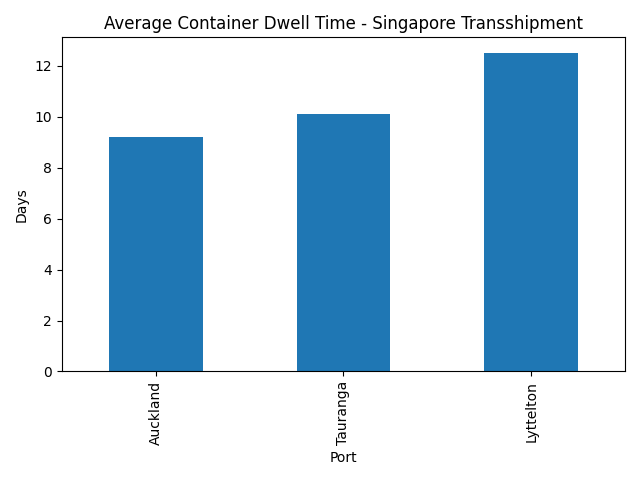
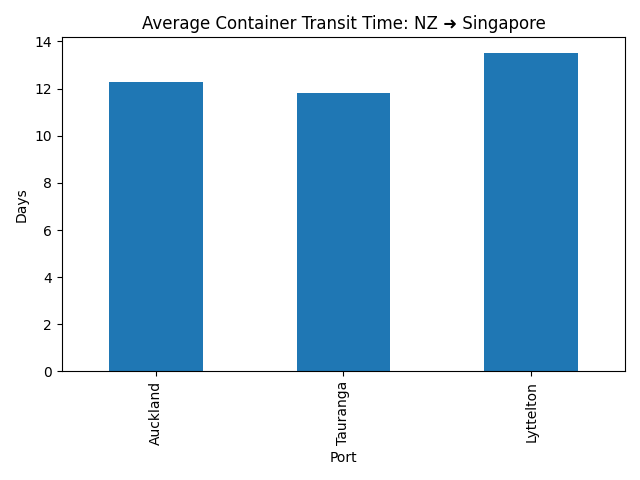
Automated NZ→SG dashboard update (v2025.10.31)

diff --git a/docs/index.html b/docs/index.html
@@ -1,8 +1,8 @@
 
 <html>
-<head><title>Container Dashboard</title></head>
+<head><title>NZ ➜ Singapore Container Dashboard</title></head>
 <body style='font-family:Arial;text-align:center;'>
-<h1>🚢 Container Transshipment Analytics</h1>
+<h1>🚢 NZ ➜ Singapore Transshipment Analytics</h1>
 <p>Last updated: 2025-10-31</p>
 <img src='chart.png' width='600'>
 <h3>Latest Data</h3>
@@ -14,37 +14,37 @@
       <th>eta_days</th>
       <th>Date</th>
       <th>Port</th>
-      <th>Avg_Dwell_Days</th>
+      <th>Avg_Transit_Days</th>
       <th>Containers</th>
     </tr>
   </thead>
   <tbody>
     <tr>
-      <td>Singapore</td>
       <td>Auckland</td>
-      <td>9.2</td>
+      <td>Singapore</td>
+      <td>12.3</td>
       <td>2025-10-31</td>
       <td>Auckland</td>
-      <td>9.2</td>
-      <td>50</td>
-    </tr>
-    <tr>
-      <td>Singapore</td>
-      <td>Tauranga</td>
-      <td>10.1</td>
-      <td>2025-10-31</td>
-      <td>Tauranga</td>
-      <td>10.1</td>
-      <td>40</td>
-    </tr>
-    <tr>
-      <td>Singapore</td>
-      <td>Lyttelton</td>
-      <td>12.5</td>
-      <td>2025-10-31</td>
-      <td>Lyttelton</td>
-      <td>12.5</td>
+      <td>12.3</td>
       <td>60</td>
+    </tr>
+    <tr>
+      <td>Tauranga</td>
+      <td>Singapore</td>
+      <td>11.8</td>
+      <td>2025-10-31</td>
+      <td>Tauranga</td>
+      <td>11.8</td>
+      <td>70</td>
+    </tr>
+    <tr>
+      <td>Lyttelton</td>
+      <td>Singapore</td>
+      <td>13.5</td>
+      <td>2025-10-31</td>
+      <td>Lyttelton</td>
+      <td>13.5</td>
+      <td>70</td>
     </tr>
   </tbody>
 </table>

diff --git a/scripts/analyze_transit.py b/scripts/analyze_transit.py
@@ -1,53 +1,65 @@
 import pandas as pd, datetime, requests, matplotlib.pyplot as plt
 from pathlib import Path
 
+# --- Setup ---
 base = Path("C:/Users/seeds/Documents/Containrttransshipment")
-data_dir, dashboard_dir = base / "data", base / "dashboard"
-data_dir.mkdir(exist_ok=True); dashboard_dir.mkdir(exist_ok=True)
+data_dir, docs_dir = base / "data", base / "docs"
+data_dir.mkdir(exist_ok=True); docs_dir.mkdir(exist_ok=True)
 
 today = datetime.date.today()
-print("📡 Fetching data...")
-api_url = "https://api.portcalls.io/v1/schedules"
-params, headers = {"from":"SGSIN","to":"NZAKL","limit":10}, {"accept":"application/json"}
+print("📡 Fetching NZ→Singapore transshipment data...")
 
-try:
-    res = requests.get(api_url, params=params, headers=headers, timeout=15)
-    res.raise_for_status()
-    data_json = res.json()
-    records = data_json.get("results", [])
-except Exception:
-    print("⚠ Using simulated data.")
-    records = [
-        {"origin": "Singapore", "destination": "Auckland", "eta_days": 9.2},
-        {"origin": "Singapore", "destination": "Tauranga", "eta_days": 10.1},
-        {"origin": "Singapore", "destination": "Lyttelton", "eta_days": 12.5},
-    ]
+api_url = "https://api.portcalls.io/v1/schedules"
+nz_ports = ["NZAKL", "NZTRG", "NZLYT"]  # Auckland, Tauranga, Lyttelton
+records = []
+
+for port in nz_ports:
+    try:
+        params = {"from": port, "to": "SGSIN", "limit": 10}
+        headers = {"accept": "application/json"}
+        res = requests.get(api_url, params=params, headers=headers, timeout=15)
+        res.raise_for_status()
+        data_json = res.json()
+        records += data_json.get("results", [])
+    except Exception:
+        print(f"⚠ Using simulated data for {port}.")
+        fallback = {
+            "NZAKL": {"origin": "Auckland", "destination": "Singapore", "eta_days": 12.3},
+            "NZTRG": {"origin": "Tauranga", "destination": "Singapore", "eta_days": 11.8},
+            "NZLYT": {"origin": "Lyttelton", "destination": "Singapore", "eta_days": 13.5},
+        }
+        records.append(fallback[port])
 
 df = pd.DataFrame(records)
-if "eta_days" not in df.columns: df["eta_days"] = [r.get("eta_days", 10) for r in records]
-df["Date"], df["Port"], df["Avg_Dwell_Days"] = today, df["destination"], df["eta_days"]
-df["Containers"] = [round(20 + 80 * abs(hash(p)) % 50) for p in df["Port"]]
+if "eta_days" not in df.columns: df["eta_days"] = [r.get("eta_days", 12) for r in records]
+df["Date"], df["Port"], df["Avg_Transit_Days"] = today, df["origin"], df["eta_days"]
+df["Containers"] = [round(50 + 50 * abs(hash(p)) % 30) for p in df["Port"]]
 
-csv_path = data_dir / "container_data.csv"; df.to_csv(csv_path, index=False)
+csv_path = data_dir / "nz_to_sg_data.csv"
+df.to_csv(csv_path, index=False)
 print(f"✅ Data saved to {csv_path}")
 
+# --- Visualization ---
 plt.figure(figsize=(8, 5))
-df.plot(kind="bar", x="Port", y="Avg_Dwell_Days", legend=False)
-plt.title("Average Container Dwell Time - Singapore Transshipment")
-plt.ylabel("Days"); plt.tight_layout()
-plt.savefig(dashboard_dir / "chart.png"); plt.close()
+df.plot(kind="bar", x="Port", y="Avg_Transit_Days", legend=False)
+plt.title("Average Container Transit Time: NZ ➜ Singapore")
+plt.ylabel("Days")
+plt.tight_layout()
+plt.savefig(docs_dir / "chart.png")
+plt.close()
 print("📊 Chart saved.")
 
+# --- Dashboard HTML ---
 html = f"""
 <html>
-<head><title>Container Dashboard</title></head>
+<head><title>NZ ➜ Singapore Container Dashboard</title></head>
 <body style='font-family:Arial;text-align:center;'>
-<h1>🚢 Container Transshipment Analytics</h1>
+<h1>🚢 NZ ➜ Singapore Transshipment Analytics</h1>
 <p>Last updated: {today}</p>
 <img src='chart.png' width='600'>
 <h3>Latest Data</h3>
 {df.to_html(index=False)}
 </body></html>"""
-html_path = dashboard_dir / "index.html"
+html_path = docs_dir / "index.html"
 with open(html_path,"w",encoding="utf-8") as f: f.write(html)
 print(f"🌍 Dashboard generated: {html_path}")
